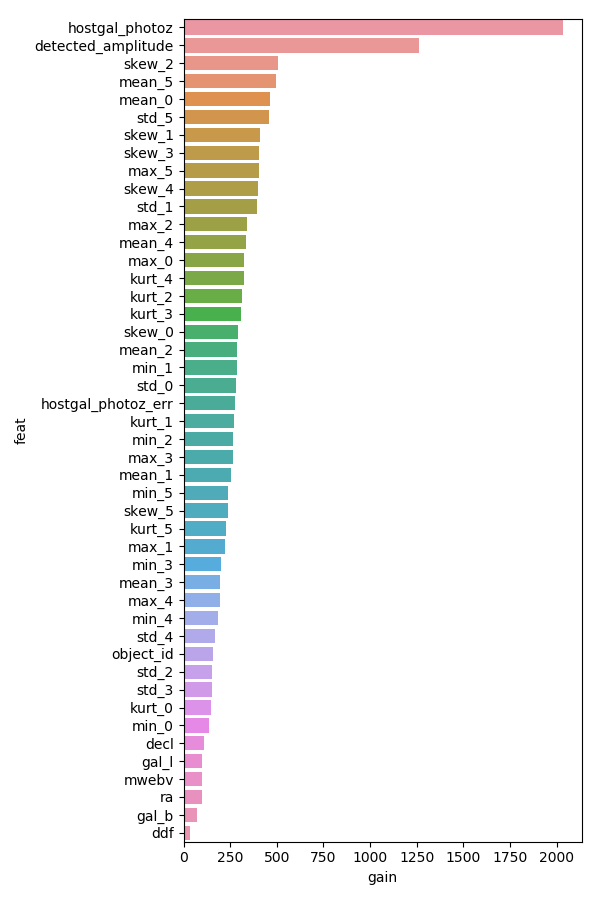
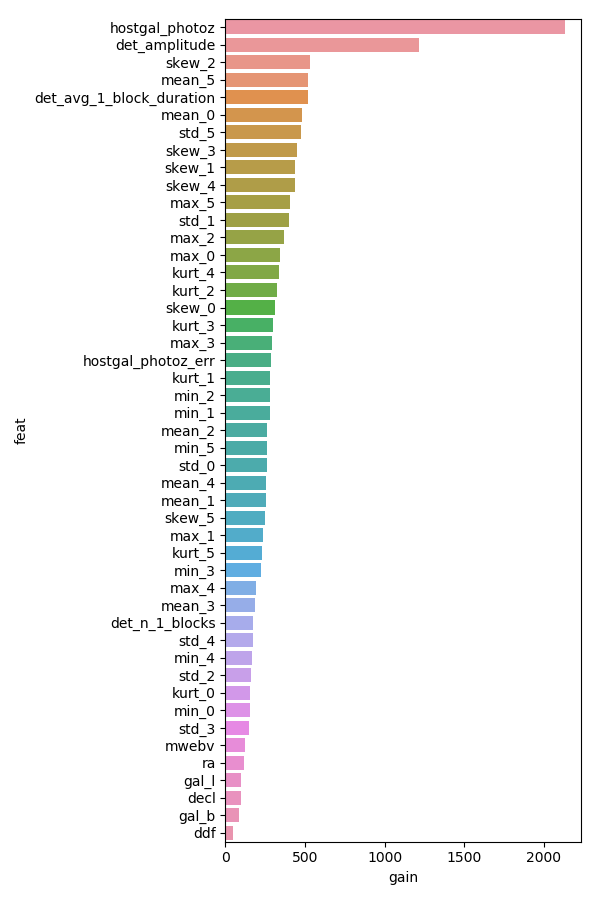
feat_gen detected underway

diff --git a/featgen_standard_v2.py b/featgen_standard_v2.py
@@ -35,7 +35,7 @@ def atomic_worker(args):
     )
 
     # Compute 'm' (flux) feats
-    for i,oid_curves in enumerate(lcs[1]):
+    for i,oid_curves in tqdm.tqdm(enumerate(lcs[1]), total=len(lcs[1]), postfix=' flux feats'):
         for j,f in enumerate(feats_to_compute):
             for k,band in enumerate(oid_curves):
                 m_array[i,j*num_bands+k] = f(band)
@@ -43,34 +43,78 @@ def atomic_worker(args):
     '''
     t-related feats (mjd)
     '''
-
-    # Define feats to compute
-    def detect_amplitude(ts, ds):
-        '''
-        Compute max detected span across passbands 
-        '''
-        detected_stamps = []
-        for t, d in zip(ts, ds):
-            d = d.astype(np.bool)
-            if np.any(d):
-                t = t[d]
-                detected_stamps.extend([t[0], t[-1]])
-        return np.max(detected_stamps) - np.min(detected_stamps)
-
-
-    feats_to_compute = [detect_amplitude]
-
-    feat_names.extend(['detected_amplitude'])
+    num_feats = 3
 
     # Allocate numpy placeholder for computed feats
     t_array = np.zeros(
-        shape=(oids.size, 1)
+        shape=(oids.size, num_feats)
     )
 
+    # Define feats to compute
+    def detected_feats(ts, ds):
+        '''
+        Compute several detected-related feats:
+            1) Max 1's amplitude
+            2) Num. 1 blocks
+            3) Avg. 1 block duration
+        '''
+
+        # Get all bands info in a single matrix
+        td_matrix = np.vstack([np.hstack(ts), np.hstack(ds)]).T
+
+        # Sort by mjd
+        td_matrix = td_matrix[td_matrix[:, 0].argsort()]
+
+        # Compute mjd groups
+        prev_detected = False
+        mjd_groups = []  # Final var holding all collect groups
+        curr_group = []  # Temp var to collect group info in loop
+
+        for line in td_matrix:
+            mjd, detected = line[0], bool(line[1])
+            if prev_detected and not detected:
+                # Just finished group
+                mjd_groups.append(curr_group)
+                curr_group = []
+                prev_detected = False
+            if detected:
+                # Going through/starting group
+                curr_group.append(mjd)
+                prev_detected = True
+
+        # Append last group
+        if curr_group:
+            mjd_groups.append(curr_group)
+
+        # Compute feats
+
+        # Amplitude
+        amp = mjd_groups[-1][-1] - mjd_groups[0][0]
+        # Num. of groups (1-blocks)
+        n_gps = len(mjd_groups)
+        # Average group duration
+        mean_gp = np.mean([g[-1] - g[0] for g in mjd_groups])
+
+        return np.array([
+            amp,
+            n_gps,
+            mean_gp,
+        ])
+
+
+    feats_to_compute = [detected_feats]
+
+    feat_names.extend([
+        'det_amplitude',
+        'det_n_1_blocks',
+        'det_avg_1_block_duration'
+    ])
+
+
     # Compute 't' (mjd)-related feats
-    for i,(oid_t_curves, oid_d_curves) in enumerate(zip(lcs[0], lcs[3])):
+    for i,(oid_t_curves, oid_d_curves) in tqdm.tqdm(enumerate(zip(lcs[0], lcs[3])), len(lcs[0]), postfix=' mjd feats'):
         for j,f in enumerate(feats_to_compute):
-            t_array[i,0] = f(oid_t_curves, oid_d_curves)
+            t_array[i,:] = f(oid_t_curves, oid_d_curves)
 
     '''
     Agg feats and wrap up
@@ -134,13 +178,24 @@ def main(save_dir, save_name, light_curves_dir, n_batches):
     df.reset_index(drop=True).to_hdf(save_dir+'/'+save_name, key='w')
 
 
-set_str = 'training'
+set_str = 'test'
 st = time.time()
 main(
     save_dir='data/'+set_str+'_feats',
-    save_name=set_str+'_set_feats_first_from_grouped_plus_detected_one.h5',
+    save_name=set_str+'_set_feats_first_from_grouped_plus_detected_three.h5',
     light_curves_dir='data/'+set_str+'_cesium_curves',
-    n_batches=1,
+    n_batches=8,
 )
 print(f'>   featgen_standard_v2 : Wall time : {(time.time()-st):.2f} seconds')
 
+# Featgen test
+# print(detected_feats(
+#     ts=[
+#         [0,1,2,7,8,9],
+#         [4,5,6,100,105,106,200],
+#     ],
+#     ds=[
+#         [0,1,1,1,1,0],
+#         [0,1,1,0,1,1,1],
+#     ],
+# ))

diff --git a/utils/misc_utils.py b/utils/misc_utils.py
@@ -2,7 +2,7 @@ import pandas as pd
 import numpy as np
 import tqdm
 import multiprocessing as mp
-import os, pickle
+import os, pickle, gc
 
 def store_chunk_lightcurves_tsfresh(chunk, save_dir, save_name):
     '''
@@ -76,7 +76,6 @@ def store_chunk_lightcurves_cesium(chunk, save_dir, save_name):
         'detected': np.uint8,
     }
     chunk = chunk.astype(dtypes)
-
     df_gb = chunk.groupby(['object_id', 'passband'])
     uoids = chunk['object_id'].unique()
     passbands = range(6)
@@ -102,12 +101,16 @@ def store_chunk_lightcurves_cesium(chunk, save_dir, save_name):
 
         final_list.append(series_oid_group)
 
+
     # Save oids
     np.save(save_dir + '/' + save_name + '_oids.npy', uoids)
 
     # Save lightcurves
     with open(save_dir + '/' + save_name + '_lcs.pkl', 'wb') as handle:
         pickle.dump(final_list, handle, protocol=pickle.HIGHEST_PROTOCOL)
+
+    del chunk, df_gb, uoids, passbands, final_list
+    gc.collect()
 
 def store_chunk_lightcurves_from_path(chunk_path, save_dir, save_name):
     '''
@@ -124,6 +127,9 @@ def store_chunk_lightcurves_from_path(chunk_path, save_dir, save_name):
 
     # Store curves
     store_chunk_lightcurves_cesium(chunk=df, save_dir=save_dir, save_name=save_name)
+
+    del df
+    gc.collect()
 
 def load_lightcurves_from_path(full_dir_to_file):
     '''
@@ -171,7 +177,7 @@ def convert_chunks_to_lc_chunks(chunks_dir, n_batches, save_dir):
         pool.join()
 
 convert_chunks_to_lc_chunks(
-    chunks_dir='/Users/miguelrita/Documents/Kaggle/remote_two/data/training_chunks',
-    save_dir='/Users/miguelrita/Documents/Kaggle/remote_two/data/training_cesium_curves',
-    n_batches=1,
+    chunks_dir='/Users/miguelrita/Documents/Kaggle/remote_two/data/test_chunks',
+    save_dir='/Users/miguelrita/Documents/Kaggle/remote_two/data/test_cesium_curves',
+    n_batches=8,
 )

diff --git a/lgbm.py b/lgbm.py
@@ -14,10 +14,10 @@ train, test, y_tgt, train_cols = utils.prep_data()
 # Get data
 produce_sub = False
 #train_feats = pd.read_hdf('data/training_feats/cesium_full_feats.h5', mode='r')
-train_feats = pd.read_hdf('data/training_feats/training_set_feats_first_from_grouped_plus_detected_one.h5', mode='r')
+train_feats = pd.read_hdf('data/training_feats/training_set_feats_first_from_grouped_plus_detected_three.h5', mode='r')
 test_feats = pd.read_hdf('data/test_feats/test_set_feats_first.h5', mode='r')
 
-all_feats = list(train_feats.columns)
+all_feats = list(train_feats.columns)[1:] # Jump o_id
 feats_to_keep = [
     'amplitude',
     # 'flux_percentile_ratio_mid20',

diff --git a/utils/file_chunker.py b/utils/file_chunker.py
@@ -128,4 +128,4 @@ def main(src_str, chunk_size):
     # assert np.array_equal(fulldf.values, fulldf2.values)
 
 if __name__ == '__main__':
-    main('test', chunk_size=np.ceil(453653104/32))
+    main('test', chunk_size=np.ceil(453653104/64))
